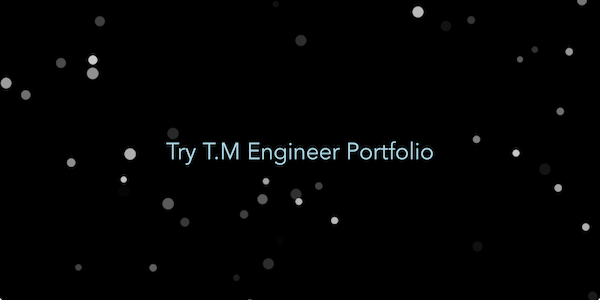
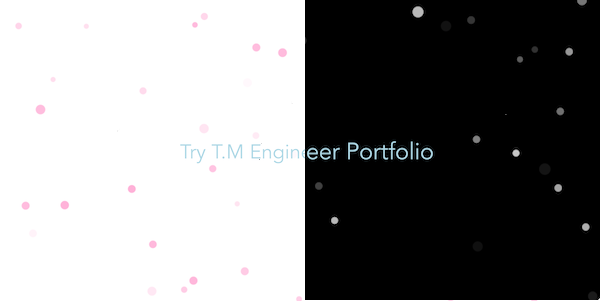
[update]画面変化用API追加

diff --git a/index.html b/index.html
@@ -3,20 +3,20 @@
   <head>
     <!-- <link href="https://fonts.googleapis.com/css?family=Audiowide" rel="stylesheet"> -->
     <meta charset="utf-8">
-    <meta name="description" content="Kodakさんのポートフォリオサイト「Try T.M Engineer Portfolio」自身の技術力向上のために作りました。詳細はブログを参照してね。">
+    <meta name="description" content="Kodakのポートフォリオサイト「Try T.M Engineer Portfolio」自身の技術力向上のために作りました。詳細はブログを参照してね。">
     <meta http-equiv="X-UA-Compatible" content="IE=edge">
     <meta name="viewport" content="width=device-width,initial-scale=1.0">
     <title>Try T.M Engineer Portfolio</title>
     <meta property="og:title" content="Try T.M Engineer Portfolio">
     <meta property="og:type" content="article">
-    <meta property="og:description" content="Kodakさんのポートフォリオサイト「Try T.M Engineer Portfolio」自身の技術力向上のために作りました。詳細はブログを参照してね。">
-    <meta property="og:url" content="">
+    <meta property="og:description" content="Kodakのポートフォリオサイト「Try T.M Engineer Portfolio」自身の技術力向上のために作りました。詳細はブログを参照してね。">
+    <meta property="og:url" content="https://www.tama-kodak.com">
     <meta property="og:image" content="@/assets/opg.png">
     <meta property="og:site_name" content="Try T.M Engineer Portfolio">
     <meta name="twitter:card" content="summary_large_image">
     <meta name="twitter:title" content="Try T.M Engineer Portfolio">
-    <meta name="twitter:description" content="">
-    <meta name="twitter:url" content="">
+    <meta name="twitter:description" content="Kodakのポートフォリオサイト「Try T.M Engineer Portfolio」自身の技術力向上のために作りました。詳細はブログを参照してね。">
+    <meta name="twitter:url" content="https://www.tama-kodak.com">
     <meta name="twitter:image" content="@/assets/opg.png">
     <link rel="shortcut icon" href="">
     <link rel="apple-touch-icon" href="">

diff --git a/src/main.js b/src/main.js
@@ -12,7 +12,7 @@ import Snowf from 'vue-snowf'
 
 import VueApexCharts from 'vue-apexcharts'
 
-import jsonFile from '../static/portfolio_data.json'
+import axios from 'axios'
 import '@/styles/main.css'
 
 Vue.use(BootstrapVue)
@@ -23,13 +23,6 @@ Vue.config.productionTip = false
 
 /* eslint-disable no-new */
 new Vue({
-  el: '#myportfolio',
-  router,
-  components: { MyPortfolio },
-  template: '<MyPortfolio/>'
-})
-
-new Vue({
   el: '#snowf',
   data: {
     'info': '0'
@@ -38,7 +31,10 @@ new Vue({
     Snowf
   },
   created: function () {
-    this.info = jsonFile.info
+    axios.get('http://kodak.portfolio.info.s3-website-ap-northeast-1.amazonaws.com')
+      .then(res => {
+        this.info = res.data.info
+      })
   },
   template:
     `<div id="snowfStyle" >
@@ -67,4 +63,11 @@ new Vue({
       color="#FF99CC"
       style="position:fixed; top:0; left:0; margin:0; width:100%; height:100%;" />
     </div>`
+})
+
+new Vue({
+  el: '#myportfolio',
+  router,
+  components: { MyPortfolio },
+  template: '<MyPortfolio/>'
 })

diff --git a/src/components/Profile.vue b/src/components/Profile.vue
@@ -11,7 +11,7 @@
       <p class="my-title-dev-skills">Development Skills</p>
       <apexchart type=bar height=250px width=95% :options="frontChartOptions" :series="series" />
       <div class="my-dev-skills-details">
-        ※Cloud(AWS): EC2, S3, IAM, VPC, Lambda, CloudFront, Route53, DynamoDB, Cognito
+        ※Cloud(AWS): 主にServerless分野（EC2, S3, IAM, VPC, Lambda, CloudFront, Route53, DynamoDB, Cognitoなど）
       </div>
     </div>
   </div>
@@ -41,7 +41,7 @@ export default {
           title: {
             text: '自己評価'
           },
-          categories: ['JavaScript', 'FrontFW[Vue.js, Nuxt.js]', 'CSS', 'Python', 'PHP', 'Cloud(AWS)', 'CMS(WordPress)']
+          categories: ['JavaScript', 'FrontFW(Vue, Nuxt)', 'CSS', 'Python', 'PHP', 'Cloud(AWS)', 'CMS(WordPress)']
         }
       }
     }

diff --git a/src/MyPortfolio.vue b/src/MyPortfolio.vue
@@ -22,20 +22,24 @@
 </template>
 
 <script>
-import jsonFile from '../static/portfolio_data.json'
+import axios from 'axios'
 
 export default {
   data () {
     return {
+      'info': '0',
       styleObject: {
         'background-color': 'black'
       }
     }
   },
   created: function () {
-    if (jsonFile.info === '1') {
-      this.styleObject['background-color'] = 'white'
-    }
+    axios.get('http://kodak.portfolio.info.s3-website-ap-northeast-1.amazonaws.com')
+      .then(res => {
+        if (res.data.info === '1') {
+          this.styleObject['background-color'] = 'white'
+        }
+      })
   }
 }
 </script>
